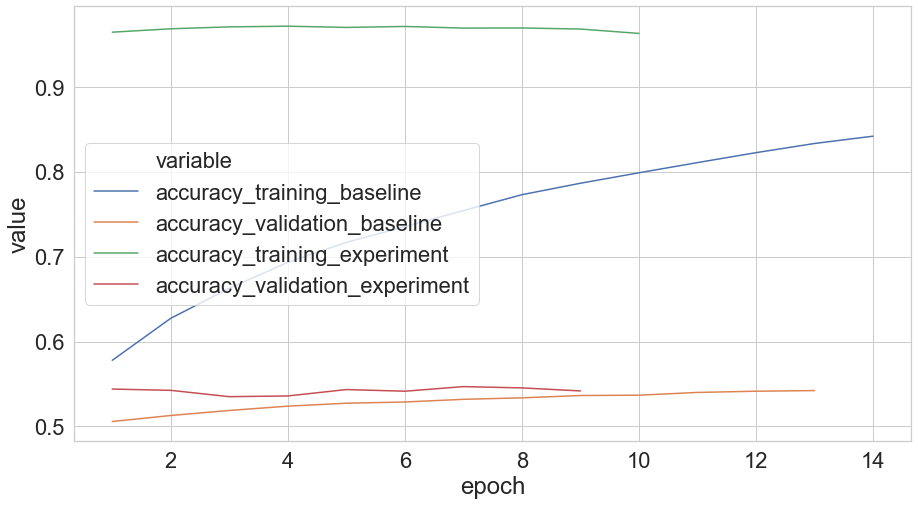
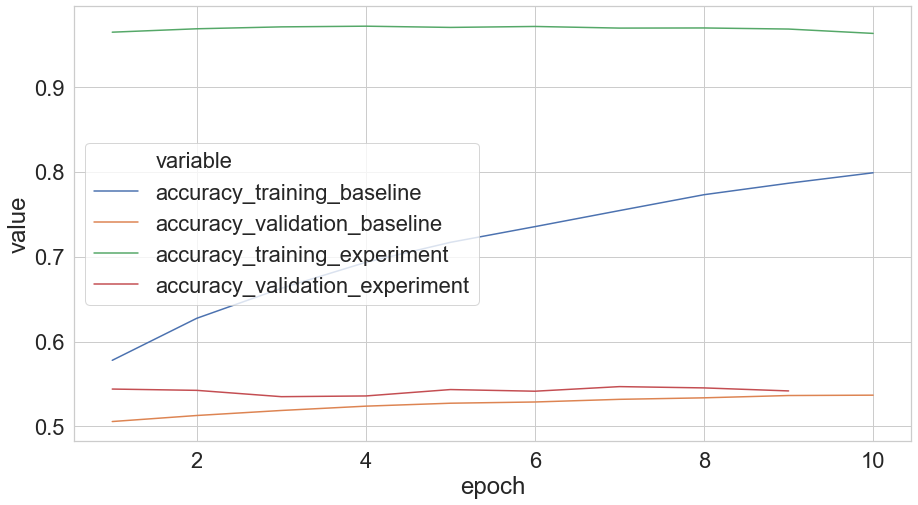
Chapter4 - Review Comments - Section4.1
Update Section 4.1.

diff --git a/Chapter4/chapter4.tex b/Chapter4/chapter4.tex
@@ -4,7 +4,7 @@
 %*******************************************************************************
 
 
-\chapter{Results and Analysis}  %Title of the Fourth Chapter
+\chapter{Results and analysis}  %Title of the Fourth Chapter
 
 \ifpdf
      \graphicspath{{Figs/Chapter4/}}
@@ -12,61 +12,52 @@
     \graphicspath{{Chapter4/Figs/Vector/}{Chapter4/Figs/}}
 \fi
 
-\section{Overview}
-This chapter discusses three hypotheses examined in the dissertation: the application of modern deep learning techniques to the training algorithm of recursive neural tensor networks, compensating for covariate shift introduced by a hypernetwork for convolutional tensor factorisation, and finally the intialisation of entity and relation embeddings using pre-trained word vectors. \bigskip
+This chapter discusses three hypotheses examined in the dissertation including the application of modern deep learning techniques to the training algorithm of recursive neural tensor networks (NTNs), compensating for covariate shift introduced by a hypernetwork for convolutional tensor factorisation, and finally the intialisation of entity and relation embeddings using pre-trained word vectors. 
 
 
 %********************************** %Recursive Neural Tensor Networks  **************************************
 
-\section{Recursive Neural Tensor Networks}
+\section{Recursive neural tensor networks}
 
-\subsubsection{Model Summary} 
-This model is inspired by recursive neural networks (RCN). RCNs are combined with the bilinear tensor product to produce a latent entity-relational representation. This representation is pass through a neural network to generate a relational score between two entities (NTN). 
+\subsection{Baseline training algorithm}
+\textbf{Model summary.} This model is inspired by recursive neural networks (RCNs). The NTN is a bilinear tensor product between the subject, predicate and object, added to a RCN compositional representation between the subject and object. This model generates a relational score between two entities. 
 
-\subsubsection{Contrastive Max-Margin Loss}
-The contrastive max-magrin loss is used to train the NTN model. The input consists of an subject-predicate pair. A non-related object is then presented as a corrupt entity. A relational score is then computed for the target triple, as well as the corrupt triple, and the difference between the two is then contrasted. The task is for the model is then to produce a higher relational score for the true triple than the false triple. If the model gets it wrong, a loss is generated and back propagated through the network to update model parameters. \newline
+\noindent \textbf{Contrastive max-margin loss.} The contrastive max-margin loss is used to train the NTN model. A relational score is computed for the target triple containing a subject, predicate and object. A relational score is then computed for a the same subject and predicate, where a non-related entity is randomly selected, and presented as a corrupt object. Relational scores in the range $ (0,1) $ are produced for the target and corrupt objects respectively. The training task is to generate a large value for the target score, and small value for the corrupt score. The computed loss is back propagated through the network to update model parameters. \par
 
-\subsubsection{Experimental Setup} 
-
-We use the following link prediction benchmark datasets: Wordnet - a lexical database for English, it is a taxonomy with hypernyms (is-a) relationships, and synonym sets. \newline
-Freebase - a large collaborative knowledge base consisting of data about the world composed mainly by its community members. It was an online collection of structured data harvested from many sources, including user-submitted wiki contributions. \bigskip
-
-Visualisations of the respective knowledge graphs are presented below:
+\noindent \textbf{Experimental setup.} We use the Wordnet and Freebase link prediction benchmark datasets. Wordnet is a lexical database for English, it is a taxonomy with hypernyms (is-a) relationships, and synonym sets. Freebase is a large collaborative knowledge base consisting of data about the world composed mainly by its community members. It was an online collection of structured data harvested from many sources, including user-submitted wiki contributions. Visualisations of the respective knowledge graphs (KGs) are presented below:
 
 \begin{figure}[H]
-  	\caption{Wordnet Entities and Relations Graphplot}
    	\centering
     	\includegraphics[width=\textwidth]{Wordnet}
+	\caption{Wordnet Entities and Relations Graphplot}
 \end{figure}
 
 \begin{figure}[H]
-  	\caption{Freebase Entity and Relations Graphplot}
    	\centering
     	\includegraphics[width=\textwidth]{Freebase}
+	\caption{Freebase Entity and Relations Graphplot}
 \end{figure}
 
-We used the Tensorflow framework to develop our model.  This model is built on top of the Neural Tensor model introduced by (Socher and Chen, et al. 2013) ~\citep{socher2013reasoning} and implemented in Tensorflow by (Doss, LeNail and Liu 2015)  ~\citep{Doss2015}. Pre-trained word vectors are used to initialise entity and relational embeddings during model training. These embeddings are dynamically adjusted during the training process to generate latent representations specific to the knowledge domain. \bigskip
+\noindent We used the TensorFlow framework to implement our updated NTN training algorithm.  This algorithm makes use of the NTN model introduced by (Socher and Chen, et al. 2013) \unskip ~\citep{socher2013reasoning} and re-implemented in TensorFlow by (Doss, LeNail and Liu 2015) \unskip ~\citep{Doss2015}. Pre-trained word vectors are used to initialise entity and relational embeddings during model training. The embedding parameters are adjusted during training to generate latent representations specific to the knowledge domain. Property counts for the respective KGs are presented below:
 
-Property counts for the respective knowledge graphs are presented below:
+\bigskip
 
 \begin{figure}[H]
 	\parbox{.5\linewidth}{
-   		\caption{Wordnet Property Barplot}
    		\centering
     		\includegraphics[width=0.45\textwidth]{Wordnet_Counts}
+		\caption{Wordnet Property Barplot}
 		}
 	\hfill
 	\parbox{.5\linewidth}{
-		\caption{Freebase Property Barplot}
    		\centering
     		\includegraphics[width=0.45\textwidth]{Freebase_Counts}
+		\caption{Freebase Property Barplot}
 		}
 \end{figure}
 
-
 \begin{table}[H]
 	\parbox{.5\linewidth}{
-		\caption{Wordnet Property Counts}
 		\centering
 		\begin{tabular}{lllllllllll}
   			\textbf{Property} & \textbf{Count}  \\
@@ -74,11 +65,12 @@ Property counts for the respective knowledge graphs are presented below:
   			Entities & 38,696  \\
   			Relations & 11  \\
   			Triples & 136,611  \\
+			&
 		\end{tabular}
+		\caption{Wordnet Property Counts}
 		}
 	\hfill
 	\parbox{.5\linewidth}{
-		\caption{Freebase Property Counts}
 		\centering
 		\begin{tabular}{lllllllllll}
   			\textbf{Property} & \textbf{Count}  \\
@@ -86,32 +78,34 @@ Property counts for the respective knowledge graphs are presented below:
   			Entities & 75,043   \\
   			Relations & 13  \\
   			Triples & 375,499  \\
+			&
 		\end{tabular}
+		\caption{Freebase Property Counts}
 		}
 \end{table}
 
-
-Summary statistics of the respective knowledge graphs Resource Description Framework (RDF) decomposition - subject, predicate, object - are presented below:
-
 %********************************** %Predicate  **************************************
+
+\noindent Summary statistics of the respective KG RDF formalism are presented below:
+
+\medskip
 
 \begin{figure}[H]
 	\parbox{.5\linewidth}{
-   		\caption{Wordnet Predicate Barplot}
    		\centering
     		\includegraphics[width=0.45\textwidth, height=0.2\textheight]{Wordnet_Predicate_Counts}
+		\caption{Wordnet Predicate Barplot}
 		}
 	\hfill
 	\parbox{.5\linewidth}{
-		\caption{Freebase Predicate Barplot}
    		\centering
 		\includegraphics[width=0.45\textwidth, height=0.2\textheight]{Freebase_Predicate_Counts}
+		\caption{Freebase Predicate Barplot}
 		}
 \end{figure}
 
 \begin{table}[H]
 	\parbox{.5\linewidth}{
-		\caption{Wordnet Predicate Statistics}
 		\centering
 		\begin{tabular}{lllllllllll}
   			\textbf{Statistic} & \textbf{Value}  \\
@@ -121,11 +115,12 @@ Summary statistics of the respective knowledge graphs Resource Description Frame
 			Min & 1,229  \\
   			Median & 7,705  \\
   			IQR & 7,257.5  \\
+				&
 		\end{tabular}
+		\caption{Wordnet Predicate Statistics}
 		}
 	\hfill
 	\parbox{.5\linewidth}{
-		\caption{Freebase Predicate Statistics}
 		\centering
 		\begin{tabular}{lllllllllll}
   			\textbf{Statistic} & \textbf{Value}  \\
@@ -135,7 +130,9 @@ Summary statistics of the respective knowledge graphs Resource Description Frame
 			Min & 4, 464  \\
   			Median & 21,149  \\
   			IQR & 34,033  \\
-		\end{tabular}
+				&
+		\end{tabular} 
+		\caption{Freebase Predicate Statistics}
 		}
 \end{table}
 
@@ -143,22 +140,20 @@ Summary statistics of the respective knowledge graphs Resource Description Frame
 
 \begin{figure}[H]
 	\parbox{.5\linewidth}{
-   		\caption{Wordnet Subject Barplot}
    		\centering
     		\includegraphics[width=0.45\textwidth, height=0.2\textheight]{Wordnet_Subject_Counts}
+		\caption{Wordnet Subject Barplot}
 		}
 	\hfill
 	\parbox{.5\linewidth}{
-		\caption{Freebase Subject Barplot}
    		\centering
 		\includegraphics[width=0.45\textwidth, height=0.2\textheight]{Freebase_Subject_Counts}
+		\caption{Freebase Subject Barplot}
 		}
 \end{figure}
 
-
 \begin{table}[H]
 	\parbox{.5\linewidth}{
-		\caption{Wordnet Subject Statistics}
 		\centering
 		\begin{tabular}{lllllllllll}
   			\textbf{Statistic} & \textbf{Value}  \\
@@ -168,11 +163,12 @@ Summary statistics of the respective knowledge graphs Resource Description Frame
 			Min & 1 \\
   			Median & 2 \\
   			IQR & 2 \\
+				&
 		\end{tabular}
+		\caption{Wordnet Subject Statistics}
 		}
 	\hfill
 	\parbox{.5\linewidth}{
-		\caption{Freebase Subject Statistics}
 		\centering
 		\begin{tabular}{lllllllllll}
   			\textbf{Statistic} & \textbf{Value}  \\
@@ -182,7 +178,9 @@ Summary statistics of the respective knowledge graphs Resource Description Frame
 			Min & 1 \\
   			Median & 5 \\
   			IQR & 4 \\
+				&
 		\end{tabular}
+		\caption{Freebase Subject Statistics}
 		}
 \end{table}
 
@@ -190,22 +188,21 @@ Summary statistics of the respective knowledge graphs Resource Description Frame
 
 \begin{figure}[H]
 	\parbox{.5\linewidth}{
-   		\caption{Wordnet Object Barplot}
    		\centering
     		\includegraphics[width=0.45\textwidth, height=0.2\textheight]{Wordnet_Object_Counts}
+		\caption{Wordnet Object Barplot}
 		}
 	\hfill
 	\parbox{.5\linewidth}{
-		\caption{Freebase Object Barplot}
    		\centering
 		\includegraphics[width=0.45\textwidth, height=0.2\textheight]{Freebase_Object_Counts}
+		\caption{Freebase Object Barplot}
 		}
 \end{figure}
 
 
 \begin{table}[H]
 	\parbox{.5\linewidth}{
-		\caption{Wordnet Object Statistics}
 		\centering
 		\begin{tabular}{lllllllllll}
   			\textbf{Statistic} & \textbf{Value}  \\
@@ -215,11 +212,12 @@ Summary statistics of the respective knowledge graphs Resource Description Frame
 			Min & 1 \\
   			Median & 3 \\
   			IQR & 2 \\
+				&
 		\end{tabular}
+		\caption{Wordnet Object Statistics}
 		}
 	\hfill
 	\parbox{.5\linewidth}{
-		\caption{Freebase Object Statistics}
 		\centering
 		\begin{tabular}{lllllllllll}
   			\textbf{Statistic} & \textbf{Value}  \\
@@ -229,60 +227,59 @@ Summary statistics of the respective knowledge graphs Resource Description Frame
 			Min & 1 \\
   			Median & 3 \\
   			IQR & 6 \\
+				&
 		\end{tabular}
+		\caption{Freebase Object Statistics}
 		}
 \end{table}
 
-For Wordnet, it can be seen that relations are skewed toward "has instance" 43,312 occurrences, and "type of" 36,659 occurrences. We would expect poor performance from the model for out-of-sample data containing
-containing relations that are not "has instance" or "type of". Freebase relations are somewhat more uniform, however four relations have occurrences under 10,000. We would expect reasonable performance across all relations for this dataset. \newpage
+\noindent For Wordnet, it can be seen that relations are skewed toward "has instance" with 43,312 occurrences, and "type of" with 36,659 occurrences. We would expect poor performance from the model for out of sample data containing relations that are not "has instance" or "type of". Freebase relations are somewhat more uniform, however four relations have occurrences under 10,000. We would expect reasonable performance across all relations for this dataset. \par
 
-Wordnet and Freebae subjects are somewhat uniform, although the median number of occurrences is 2 and 5 respectively, with an IQR of 2 and 4 respectively. This are thus sparse distributions of data points, and the model will need to rely on 
-similarity of subject features in order to produce sensible inference. Wordnet object occurrences are somewhat uniform. Freebase object occurrences are skewed, with a single object, "male" occurring 59,663 times, representing 15,88\% of facts. This is in comparison to a median object occurrence of 3 and an interquartile range of 6.
-We would expect poor performance from a Freebase link prediction model given this distribution of objects. 
+\noindent Wordnet and Freebae subjects are somewhat uniform, although the median number of occurrences is 2 and 5 respectively, with an IQR of 2 and 4 respectively. These are thus sparse distributions of data points, and the model will need to rely on  similarity of subject features in order to produce sensible inference. Wordnet object occurrences are somewhat uniform whilst Freebase object occurrences are skewed, with a single object, "male" occurring 59,663 times, representing 15,88\% of facts. This is in comparison to a median object occurrence of 3 and an interquartile range of 6. We would expect poor performance from a Freebase link prediction model given this distribution of objects. 
 
-%********************************** %Modern Deep Learning Techniques **************************************
 
-\section{NTN with Modern Deep Learning Techniques}
+%********************************** %Optimised training algorithm **************************************
 
-We change the training algorithm optimiser from AdaGrad to Adam, and implement model hyperparameter optimisation using random grid search. The the model was trained on a MacBook Pro 2015 with 8 cores, 16GB RAM, and 512GB SSD. We evaluate the model by ranking the accuracy scores of the predicted triples for the respective datasets. \bigskip
+\subsection{Optimised training algorithm}
 
-\textbf{Code to reproduce} \newline
+\noindent We update the NTN training algorithm to make use of the Adam optimiser \citep{kingma2014adam}, early stopping \citep{prechelt1998early}, and use random grid search for hyperparameter optimisation \citep{bergstra2012random}. The the model was trained on a MacBook Pro 2015 with 8 cores, 16GB RAM, and 512GB SSD. We evaluate the model by ranking the accuracy scores of the predicted triples for the respective datasets. \par
+
+\noindent \textbf{Code to reproduce} \newline
 Updated NTN:  \url{https://github.com/xhosaBoy/deep-knowledge-modelling} \newline
 Baseline: \url{https://github.com/xhosaBoy/recursive-neural-tensor-networks}
 
-\subsubsection{Link Prediction Results}
-The link prediction accuracy results of the RNTN model, a neural factorisation model compared against linear factorisation models, are presented in table 5.1:
+\subsubsection{Model training results}
+The cost and accuracy results of NTN model training with the original baseline training algorithm, compared to the optimised training algorithm are presented below.
 
 \begin{figure}[H]
 	\parbox{.5\linewidth}{
-   		\caption{Wordnet Cost}
    		\centering
     		\includegraphics[width=0.45\textwidth, height=0.2\textheight]{Wordnet_Cost_Results_Early_Stopping}
+		\caption{Wordnet Cost}
 		}
 	\hfill
 	\parbox{.5\linewidth}{
-		\caption{Freebase Cost}
    		\centering
 		\includegraphics[width=0.45\textwidth, height=0.2\textheight]{Freebase_Cost_Results}
+		\caption{Freebase Cost}
 		}
 \end{figure}
 
 \begin{figure}[H]
 	\parbox{.5\linewidth}{
-   		\caption{Wordnet Accuracy}
    		\centering
     		\includegraphics[width=0.45\textwidth, height=0.2\textheight]{Wordnet_Accuracy_Results_Early_Stopping}
+		\caption{Wordnet Accuracy}
 		}
 	\hfill
 	\parbox{.5\linewidth}{
-		\caption{Freebase Accuracy}
    		\centering
 		\includegraphics[width=0.45\textwidth, height=0.2\textheight]{Freebase_Accuracy_Results}
+		\caption{Freebase Accuracy}
 		}
 \end{figure}
 
 \begin{table}[H]
-	\caption{Link prediction accuracy on Wordnet and Freebase}
 	\centering
 	\begin{tabular}{lllllllllll}
   		\textbf{Model} & \textbf{Wordnet} & \textbf{Freebbase} & \textbf{Avg} \\
@@ -291,10 +288,12 @@ The link prediction accuracy results of the RNTN model, a neural factorisation m
   		Hadamard Model & .800 & .688 & .744 \\
   		Single Layer Model & .760 & .853 & .807 \\
   		Bilinear Model & \textbf{.841} & \textbf{.877} & \textbf{.859} \\
-  		NTN & .562 & .535 & .549 \\
+  		NTN Baseline & .562 & .535 & .549 \\
   		\hline
-  		Updated NTN & .674 & .548 & .611 \\
+  		NTN with Optimised Training & .674 & .548 & .611 \\
+		&
 	\end{tabular}
+	\caption{Link prediction cost and accuracy on Wordnet and Freebase KGs}
 \end{table}
 
 
